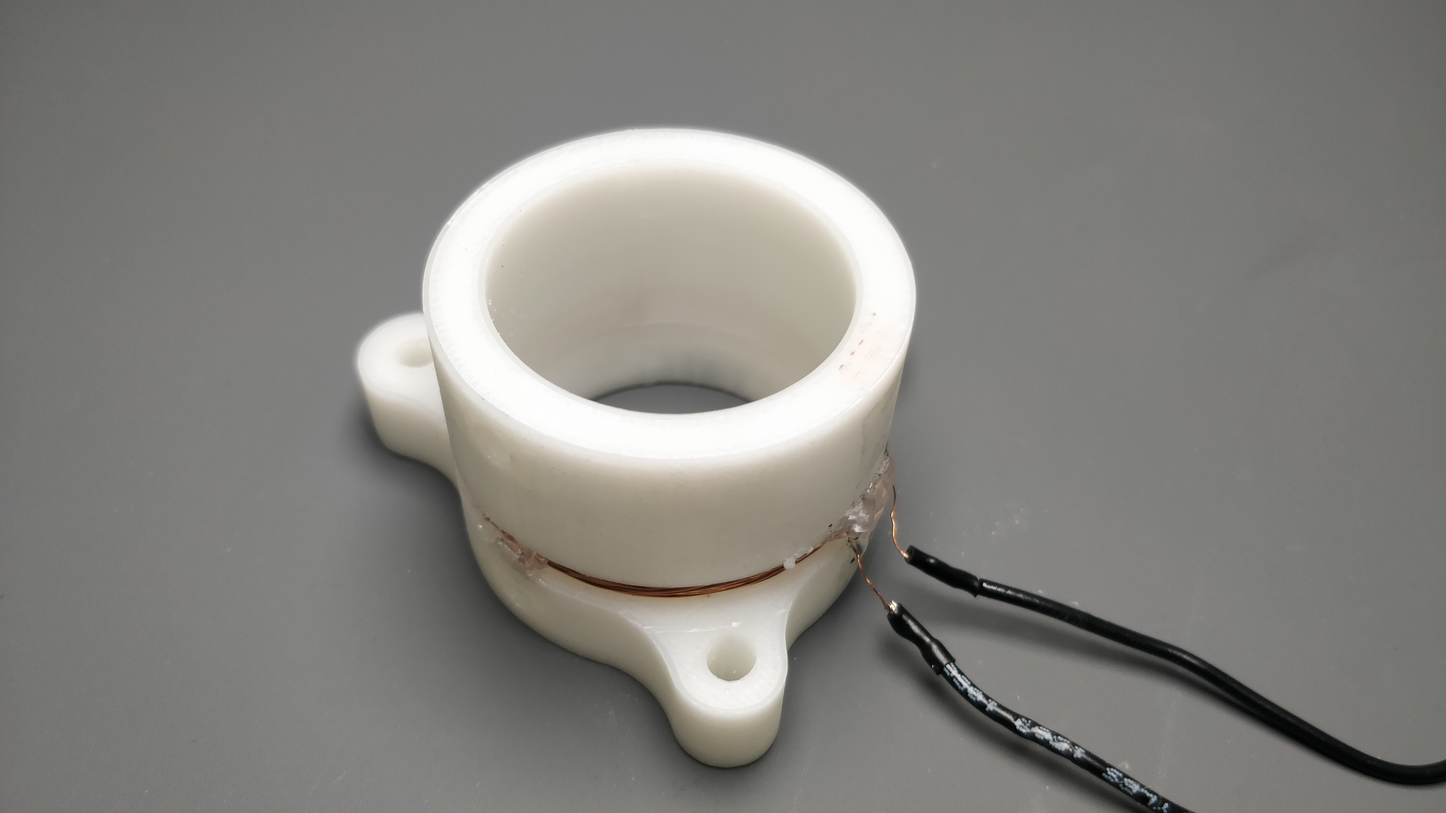
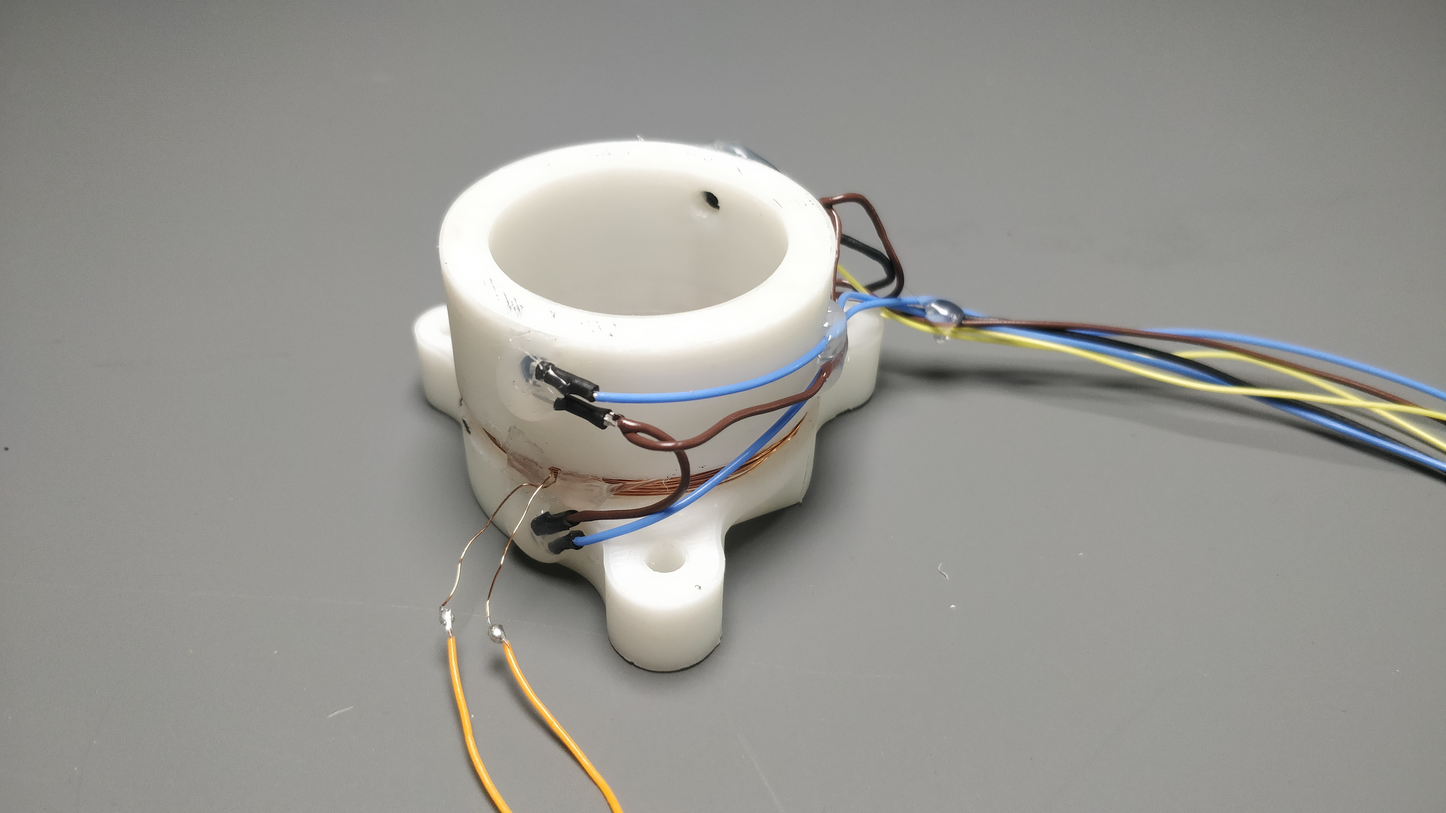
Update schwegler antenna instructions for sizing

diff --git a/docs/assets/code/Antenna_coil_sizing.py b/docs/assets/code/Antenna_coil_sizing.py
@@ -1,0 +1,100 @@
+"""Module providing Inductance of single-layer coils."""
+
+# All credits go to
+# http://electronbunker.ca/eb/CalcMethods1a.html
+
+import math
+
+#################################################
+# Input
+#################################################
+
+# Mean radius in m
+RADIUS = 36 / 2 / 1000
+
+# Wire diameter (external)
+WIRE_DIAMETER = 0.2
+
+# Target inductance of the coil
+TARGER_INDUCTANCE_UH = 192
+
+#################################################
+
+# Nagaoka's formula: Ls = k*(2*pi*N*r)²/l
+# Ls is inductance of the coil in H
+# N is the number of turns
+# r is the radius of the coil in m
+# l is the length / thickness of the coil in m
+# k is Nagaoka's coefficient, computed from diameter/length
+
+# returns: Nagaoka's coefficient, aka: field non-uniformity coefficient
+# parameter: u = diameter/length
+# comments: this function uses the arithmetic-geometric mean method to compute
+# the 2 elliptic integrals K and E in Nagoaka's formula and thus determine
+# Nagoaka's coefficient
+
+def nagaoka(u):
+# returns Nagaoka's coefficient,
+# aka: field non-uniformity coefficient
+# where u=diameter/length
+    if (u==0):
+        return 1
+    else:
+        uu = u * u                # (diameter/length)²
+        m = uu / (1 + uu)         # square of modulus
+        m2 = 4 * math.sqrt(1 + uu)
+        a = 1                       # arithmetic mean
+        b = math.sqrt(1 - m)        # geometric mean
+        c = a - b
+        ci = 1
+        cs = c * c / 2 + m
+        co = c + 1
+        
+        while (c < co) :
+            ao = (a + b) / 2
+            b = math.sqrt(a * b)
+            a = ao
+            co = c
+            c = a - b
+            cs = cs + ci * c * c  # Sum for n = 0 to infinity of (2^n * c²)
+            ci = 2 * ci
+
+        cs = cs / 2
+        K = math.pi / (a + a)   # elliptic integral K = pi/(2a)
+        KmE = K * cs            # K - E
+        E = K * (1 - cs)        # elliptic integral E
+
+    return(1/(3*math.pi)*(m2/uu*(KmE)+m2*E-4*u))
+
+Ls = 0
+iterationNumber = 0
+WIRE_LENGTH = 0
+NB_SPIRES = 0
+COIL_LENGHT = 0
+DIAMETER = 2 * RADIUS
+
+while ((Ls < TARGER_INDUCTANCE_UH ) and iterationNumber < 20000):
+    
+    # Increment length of the wire
+    WIRE_LENGTH = WIRE_LENGTH + 0.001
+    
+    # Compute updated coil characteristics
+    NB_SPIRES = WIRE_LENGTH / math.pi / DIAMETER
+    # Length / thickness in m
+    COIL_LENGHT = WIRE_DIAMETER * math.ceil(NB_SPIRES) / 1000
+    
+    k = nagaoka(DIAMETER / COIL_LENGHT)
+    # Inductor in µHenries
+    Ls = 4 * pow(math.pi, 2) * pow(NB_SPIRES, 2) * pow(RADIUS, 2) * k / COIL_LENGHT /10
+    
+    iterationNumber = iterationNumber + 1
+
+if iterationNumber != 20000:
+    print(f'{iterationNumber} iterations realized :')
+    print(f'|- Nagaoka coefficient is {k}')
+    print(f'|- Inductor is {Ls} µH')
+    print(f'|- Wire length is {WIRE_LENGTH} m')
+    print(f'|- Nb spires is {NB_SPIRES}')
+    print(f'|- Coil length is {COIL_LENGHT * 1000} mm')
+else:
+    print('No result found')

diff --git a/docs/Assembling_antenna.md b/docs/Assembling_antenna.md
@@ -7,16 +7,25 @@ The material needed to make a coil antenna is:
 * Enamelled copper wire. The 0.2 copper wire from Radiospares is used ([RadioSpare ref 357-918](https://fr.rs-online.com/web/p/fils-de-cuivre/0357918))
 * The structure to wrap the antenna around. This is the 3D printed part named antenna.stl.
 * A glue gun
-* Standard wire for connecting to the RFID reader TODO REF
+* Standard 28 AWG wire for connecting to the RFID reader
 * Soldering material, iron, solder, heat shrink...
 
 ## Antenna sizing
 
-If wire lenght is not specified for the specific antenna we want to build, the Nagaoka's formula would help us.
-It returns the inductance based on the size, the thickness and the number of spires of the coil antenna.
-This script allows to check if the chosen coil design achieves the required inductance.
+If the wire lenght is not specified for the specific antenna we want to build, the Nagaoka's formula would help us.
+It returns the inductance based on the coil diameter, the thickness of the wire and the number of spires of the coil antenna.
 
 Note : we are not exactly in the conditions of the formula, the final inductance will need to be measured with an inductance meter.
+
+Two scripts are available for the sizing. The first one calculates the length of wire required for the coil antenna, based on the antenna diameter, the wire diameter and the desired inductance :
+
+??? "Python code for coil inductance sizing"
+
+    ```
+    --8<-- "docs/assets/code/Antenna_coil_sizing.py"
+    ```
+
+The second script allows to check if the chosen coil design achieves the required inductance, based on the real length and number of spires of the coil :
 
 ??? "Python code for check the coil inductance"
 

diff --git a/docs/Antenna_schwegler.md b/docs/Antenna_schwegler.md
@@ -39,7 +39,7 @@ The antenna is an circle of Ø36 mm . You can access the [mechanical schematic o
 
 ## Electronic specifications
 
-The antenna inductance is around 192µH to be compliant to the Tectus RFID reader TITAN 4004. It is suitable with the 125 - 134 kHz frequency range. It requires 7.5 m of Ø0.2mm enamelled copper wire which would make 66.5 spires.
+The antenna inductance is around 192µH to be compliant to the Tectus RFID reader TITAN 4004. It is suitable with the 125 - 134 kHz frequency range. It requires 7.5 m of Ø0.2mm enamelled copper wire which would make ~67 spires.
 
 ## Assembling instructions
 
